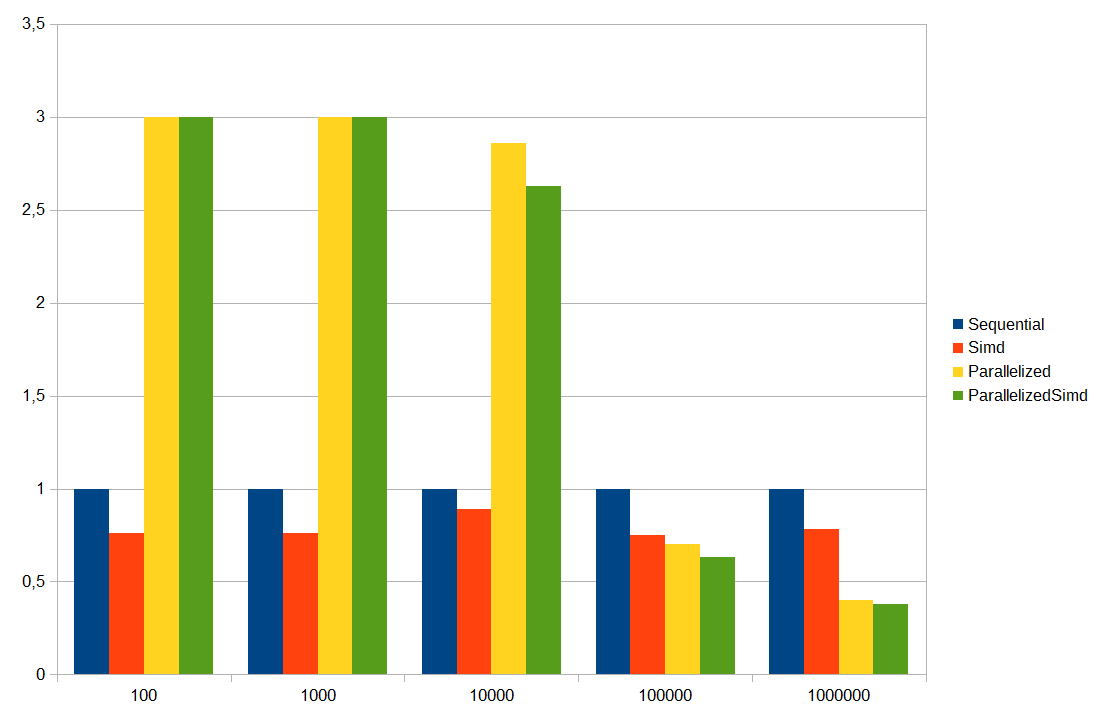
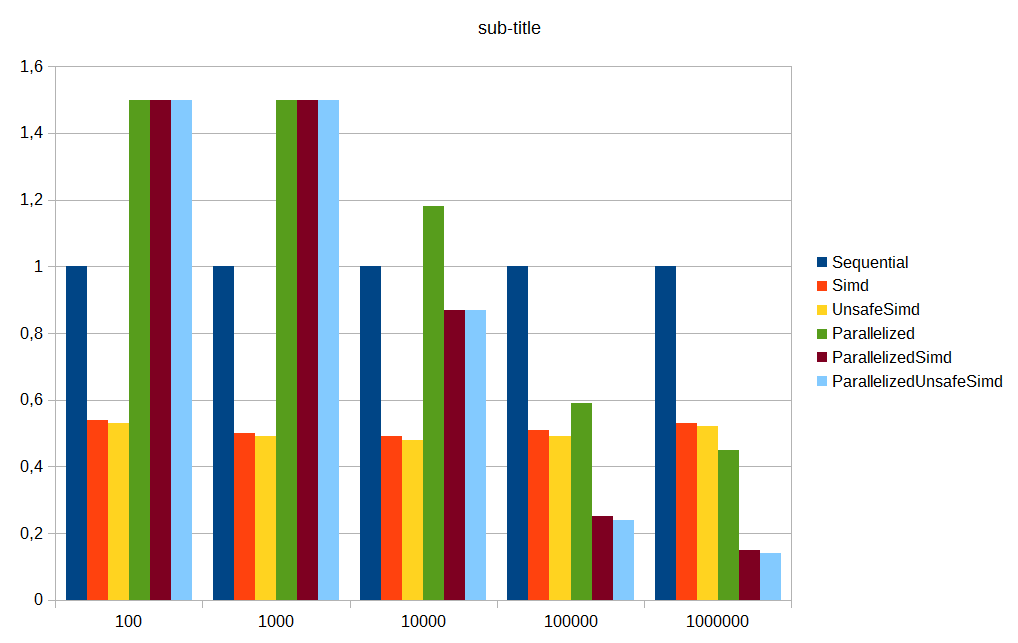
Benchmarks for https://github.com/gfoidl/Stochastics/issues/4

diff --git a/perf/gfoidl.Stochastics.Benchmarks/BenchmarkDotNet.Artifacts/results/gfoidl.Stochastics.Benchmarks.CalculateDeltaBenchmarks-report.html b/perf/gfoidl.Stochastics.Benchmarks/BenchmarkDotNet.Artifacts/results/gfoidl.Stochastics.Benchmarks.CalculateDeltaBenchmarks-report.html
@@ -13,38 +13,47 @@
 </head>
 <body>
 <pre><code>
-BenchmarkDotNet=v0.10.11, OS=Windows 7 SP1 (6.1.7601.0)
-Processor=Intel Core i7-3610QM CPU 2.30GHz (Ivy Bridge), ProcessorCount=8
-Frequency=2241054 Hz, Resolution=446.2186 ns, Timer=TSC
-.NET Core SDK=2.1.2
-  [Host]     : .NET Core 2.0.3 (Framework 4.6.25815.02), 64bit RyuJIT
-  DefaultJob : .NET Core 2.0.3 (Framework 4.6.25815.02), 64bit RyuJIT
+BenchmarkDotNet=v0.10.11, OS=ubuntu 16.04
+Processor=Intel Xeon CPU 2.60GHz, ProcessorCount=4
+.NET Core SDK=2.1.3
+  [Host]     : .NET Core 2.0.4 (Framework 4.6.0.0), 64bit RyuJIT
+  DefaultJob : .NET Core 2.0.4 (Framework 4.6.0.0), 64bit RyuJIT
 </code></pre>
 <pre><code></code></pre>
 
 <table>
-<thead><tr><th>    Method</th><th>N</th><th>     Mean</th><th>  Error</th><th> StdDev</th><th>Scaled</th><th>ScaledSD</th>
+<thead><tr><th>          Method</th><th>N</th><th>    Mean</th><th>   Error</th><th>  StdDev</th><th>Scaled</th><th>ScaledSD</th>
 </tr>
-</thead><tbody><tr><td>Sequential</td><td>100</td><td>103.08 ns</td><td>2.530 ns</td><td>3.108 ns</td><td>1.00</td><td>0.00</td>
-</tr><tr><td>      Simd</td><td>100</td><td> 77.95 ns</td><td>1.381 ns</td><td>1.418 ns</td><td>0.76</td><td>0.03</td>
-</tr><tr><td>Parallelized</td><td>100</td><td>14,260.56 ns</td><td>280.124 ns</td><td>572.218 ns</td><td>138.47</td><td>6.79</td>
-</tr><tr><td>ParallelizedSimd</td><td>100</td><td>15,109.03 ns</td><td>297.945 ns</td><td>566.871 ns</td><td>146.70</td><td>6.89</td>
-</tr><tr><td>Sequential</td><td>1000</td><td>992.65 ns</td><td>10.378 ns</td><td>8.666 ns</td><td>1.00</td><td>0.00</td>
-</tr><tr><td>      Simd</td><td>1000</td><td>758.28 ns</td><td>8.265 ns</td><td>7.731 ns</td><td>0.76</td><td>0.01</td>
-</tr><tr><td>Parallelized</td><td>1000</td><td>19,512.83 ns</td><td>388.174 ns</td><td>784.130 ns</td><td>19.66</td><td>0.80</td>
-</tr><tr><td>ParallelizedSimd</td><td>1000</td><td>18,146.27 ns</td><td>413.119 ns</td><td>1,218.091 ns</td><td>18.28</td><td>1.23</td>
-</tr><tr><td>Sequential</td><td>10000</td><td>10,283.10 ns</td><td>170.939 ns</td><td>159.896 ns</td><td>1.00</td><td>0.00</td>
-</tr><tr><td>      Simd</td><td>10000</td><td>9,173.94 ns</td><td>72.481 ns</td><td>67.798 ns</td><td>0.89</td><td>0.01</td>
-</tr><tr><td>Parallelized</td><td>10000</td><td>29,444.16 ns</td><td>696.735 ns</td><td>2,054.338 ns</td><td>2.86</td><td>0.20</td>
-</tr><tr><td>ParallelizedSimd</td><td>10000</td><td>27,063.47 ns</td><td>538.435 ns</td><td>1,464.853 ns</td><td>2.63</td><td>0.15</td>
-</tr><tr><td>Sequential</td><td>100000</td><td>99,172.89 ns</td><td>1,279.400 ns</td><td>1,134.155 ns</td><td>1.00</td><td>0.00</td>
-</tr><tr><td>      Simd</td><td>100000</td><td>74,260.29 ns</td><td>155.633 ns</td><td>121.508 ns</td><td>0.75</td><td>0.01</td>
-</tr><tr><td>Parallelized</td><td>100000</td><td>69,457.64 ns</td><td>1,609.421 ns</td><td>4,669.222 ns</td><td>0.70</td><td>0.05</td>
-</tr><tr><td>ParallelizedSimd</td><td>100000</td><td>62,653.87 ns</td><td>1,247.187 ns</td><td>3,393.063 ns</td><td>0.63</td><td>0.03</td>
-</tr><tr><td>Sequential</td><td>1000000</td><td>1,041,421.30 ns</td><td>6,283.693 ns</td><td>5,570.330 ns</td><td>1.00</td><td>0.00</td>
-</tr><tr><td>      Simd</td><td>1000000</td><td>810,299.97 ns</td><td>11,487.766 ns</td><td>9,592.804 ns</td><td>0.78</td><td>0.01</td>
-</tr><tr><td>Parallelized</td><td>1000000</td><td>419,496.96 ns</td><td>8,763.994 ns</td><td>25,004.168 ns</td><td>0.40</td><td>0.02</td>
-</tr><tr><td>ParallelizedSimd</td><td>1000000</td><td>400,718.96 ns</td><td>7,924.591 ns</td><td>18,208.066 ns</td><td>0.38</td><td>0.02</td>
+</thead><tbody><tr><td>      Sequential</td><td>100</td><td>267.0 ns</td><td>1.1646 ns</td><td>1.0894 ns</td><td>1.00</td><td>0.00</td>
+</tr><tr><td>            Simd</td><td>100</td><td>143.9 ns</td><td>0.4182 ns</td><td>0.3707 ns</td><td>0.54</td><td>0.00</td>
+</tr><tr><td>      UnsafeSimd</td><td>100</td><td>142.5 ns</td><td>0.5870 ns</td><td>0.5203 ns</td><td>0.53</td><td>0.00</td>
+</tr><tr><td>    Parallelized</td><td>100</td><td>13,869.9 ns</td><td>275.2562 ns</td><td>305.9465 ns</td><td>51.95</td><td>1.13</td>
+</tr><tr><td>ParallelizedSimd</td><td>100</td><td>13,806.7 ns</td><td>263.0359 ns</td><td>377.2382 ns</td><td>51.71</td><td>1.40</td>
+</tr><tr><td>ParallelizedUnsafeSimd</td><td>100</td><td>13,949.5 ns</td><td>316.9510 ns</td><td>412.1259 ns</td><td>52.25</td><td>1.52</td>
+</tr><tr><td>      Sequential</td><td>1000</td><td>2,695.1 ns</td><td>11.5088 ns</td><td>10.2022 ns</td><td>1.00</td><td>0.00</td>
+</tr><tr><td>            Simd</td><td>1000</td><td>1,335.6 ns</td><td>7.9871 ns</td><td>7.4711 ns</td><td>0.50</td><td>0.00</td>
+</tr><tr><td>      UnsafeSimd</td><td>1000</td><td>1,308.8 ns</td><td>3.6940 ns</td><td>3.0847 ns</td><td>0.49</td><td>0.00</td>
+</tr><tr><td>    Parallelized</td><td>1000</td><td>19,358.3 ns</td><td>203.5060 ns</td><td>158.8841 ns</td><td>7.18</td><td>0.06</td>
+</tr><tr><td>ParallelizedSimd</td><td>1000</td><td>15,647.0 ns</td><td>305.5757 ns</td><td>428.3744 ns</td><td>5.81</td><td>0.16</td>
+</tr><tr><td>ParallelizedUnsafeSimd</td><td>1000</td><td>15,267.5 ns</td><td>296.7190 ns</td><td>231.6587 ns</td><td>5.67</td><td>0.08</td>
+</tr><tr><td>      Sequential</td><td>10000</td><td>26,896.4 ns</td><td>128.1563 ns</td><td>119.8774 ns</td><td>1.00</td><td>0.00</td>
+</tr><tr><td>            Simd</td><td>10000</td><td>13,202.7 ns</td><td>34.2350 ns</td><td>30.3484 ns</td><td>0.49</td><td>0.00</td>
+</tr><tr><td>      UnsafeSimd</td><td>10000</td><td>13,020.3 ns</td><td>63.8175 ns</td><td>56.5726 ns</td><td>0.48</td><td>0.00</td>
+</tr><tr><td>    Parallelized</td><td>10000</td><td>31,839.6 ns</td><td>817.1674 ns</td><td>1,687.5924 ns</td><td>1.18</td><td>0.06</td>
+</tr><tr><td>ParallelizedSimd</td><td>10000</td><td>23,531.8 ns</td><td>333.9748 ns</td><td>278.8840 ns</td><td>0.87</td><td>0.01</td>
+</tr><tr><td>ParallelizedUnsafeSimd</td><td>10000</td><td>23,361.9 ns</td><td>438.2625 ns</td><td>388.5083 ns</td><td>0.87</td><td>0.01</td>
+</tr><tr><td>      Sequential</td><td>100000</td><td>264,949.6 ns</td><td>934.0504 ns</td><td>779.9743 ns</td><td>1.00</td><td>0.00</td>
+</tr><tr><td>            Simd</td><td>100000</td><td>134,879.3 ns</td><td>1,430.3841 ns</td><td>1,337.9820 ns</td><td>0.51</td><td>0.01</td>
+</tr><tr><td>      UnsafeSimd</td><td>100000</td><td>131,076.6 ns</td><td>817.6052 ns</td><td>682.7373 ns</td><td>0.49</td><td>0.00</td>
+</tr><tr><td>    Parallelized</td><td>100000</td><td>157,510.3 ns</td><td>2,986.4690 ns</td><td>2,793.5447 ns</td><td>0.59</td><td>0.01</td>
+</tr><tr><td>ParallelizedSimd</td><td>100000</td><td>66,818.0 ns</td><td>1,330.5960 ns</td><td>2,365.1330 ns</td><td>0.25</td><td>0.01</td>
+</tr><tr><td>ParallelizedUnsafeSimd</td><td>100000</td><td>63,187.1 ns</td><td>981.1055 ns</td><td>917.7266 ns</td><td>0.24</td><td>0.00</td>
+</tr><tr><td>      Sequential</td><td>1000000</td><td>2,793,817.3 ns</td><td>24,965.7496 ns</td><td>22,131.4846 ns</td><td>1.00</td><td>0.00</td>
+</tr><tr><td>            Simd</td><td>1000000</td><td>1,483,392.3 ns</td><td>28,874.7784 ns</td><td>33,252.2348 ns</td><td>0.53</td><td>0.01</td>
+</tr><tr><td>      UnsafeSimd</td><td>1000000</td><td>1,465,181.1 ns</td><td>29,278.0990 ns</td><td>41,043.8057 ns</td><td>0.52</td><td>0.01</td>
+</tr><tr><td>    Parallelized</td><td>1000000</td><td>1,248,575.2 ns</td><td>17,478.5690 ns</td><td>16,349.4627 ns</td><td>0.45</td><td>0.01</td>
+</tr><tr><td>ParallelizedSimd</td><td>1000000</td><td>421,959.5 ns</td><td>4,722.1225 ns</td><td>4,186.0382 ns</td><td>0.15</td><td>0.00</td>
+</tr><tr><td>ParallelizedUnsafeSimd</td><td>1000000</td><td>402,343.5 ns</td><td>4,310.8080 ns</td><td>4,032.3321 ns</td><td>0.14</td><td>0.00</td>
 </tr></tbody></table>
 </body>
 </html>

diff --git a/perf/gfoidl.Stochastics.Benchmarks/CalculateDeltaBenchmarks.cs b/perf/gfoidl.Stochastics.Benchmarks/CalculateDeltaBenchmarks.cs
@@ -1,13 +1,14 @@
 using System;
 using System.Collections.Concurrent;
 using System.Numerics;
+using System.Runtime.CompilerServices;
 using System.Threading.Tasks;
 using BenchmarkDotNet.Attributes;
 using BenchmarkDotNet.Running;
 
 namespace gfoidl.Stochastics.Benchmarks
 {
-    //[DisassemblyDiagnoser(printSource: true)]
+    [DisassemblyDiagnoser(printSource: true)]
     public class CalculateDeltaBenchmarks
     {
         public static void Run()
@@ -15,10 +16,13 @@ namespace gfoidl.Stochastics.Benchmarks
             var benchs = new CalculateDeltaBenchmarks();
             benchs.N   = 1000;
             benchs.GlobalSetup();
-            Console.WriteLine(benchs.Sequential());
-            Console.WriteLine(benchs.Simd());
-            Console.WriteLine(benchs.Parallelized());
-            Console.WriteLine(benchs.ParallelizedSimd());
+            const int align = -25;
+            Console.WriteLine($"{nameof(benchs.Sequential),align}: {benchs.Sequential()}");
+            Console.WriteLine($"{nameof(benchs.Simd),align}: {benchs.Simd()}");
+            Console.WriteLine($"{nameof(benchs.UnsafeSimd),align}: {benchs.UnsafeSimd()}");
+            Console.WriteLine($"{nameof(benchs.Parallelized),align}: {benchs.Parallelized()}");
+            Console.WriteLine($"{nameof(benchs.ParallelizedSimd),align}: {benchs.ParallelizedSimd()}");
+            Console.WriteLine($"{nameof(benchs.ParallelizedUnsafeSimd),align}: {benchs.ParallelizedUnsafeSimd()}");
 #if !DEBUG
             BenchmarkRunner.Run<CalculateDeltaBenchmarks>();
 #endif
@@ -43,7 +47,7 @@ namespace gfoidl.Stochastics.Benchmarks
             for (int i = 0; i < this.N; ++i)
             {
                 _values[i] = rnd.NextDouble();
-                _avg += _values[i];
+                _avg      += _values[i];
             }
 
             _avg /= this.N;
@@ -78,10 +82,10 @@ namespace gfoidl.Stochastics.Benchmarks
                 for (; i < tmp.Length - 2 * Vector<double>.Count; i += Vector<double>.Count)
                 {
                     var tmpVec = new Vector<double>(tmp, i);
-                    deltaVec += Vector.Abs(tmpVec - avgVec);
+                    deltaVec  += Vector.Abs(tmpVec - avgVec);
 
-                    i += Vector<double>.Count;
-                    tmpVec = new Vector<double>(tmp, i);
+                    i        += Vector<double>.Count;
+                    tmpVec    = new Vector<double>(tmp, i);
                     deltaVec += Vector.Abs(tmpVec - avgVec);
                 }
 
@@ -96,6 +100,47 @@ namespace gfoidl.Stochastics.Benchmarks
         }
         //---------------------------------------------------------------------
         [Benchmark]
+        public unsafe double UnsafeSimd()
+        {
+            double delta = 0;
+            double avg   = this.Mean;
+            int n        = _values.Length;
+
+            fixed (double* pArray = _values)
+            {
+                double* arr = pArray;
+                int i       = 0;
+
+                if (Vector.IsHardwareAccelerated && n >= Vector<double>.Count * 2)
+                {
+                    var avgVec   = new Vector<double>(avg);
+                    var deltaVec = new Vector<double>(0);
+
+                    for (; i < n - 2 * Vector<double>.Count;)
+                    {
+                        Vector<double> vec = Unsafe.Read<Vector<double>>(arr);
+                        deltaVec += Vector.Abs(vec - avgVec);
+                        arr      += Vector<double>.Count;
+                        i        += Vector<double>.Count;
+
+                        vec = Unsafe.Read<Vector<double>>(arr);
+                        deltaVec += Vector.Abs(vec - avgVec);
+                        arr      += Vector<double>.Count;
+                        i        += Vector<double>.Count;
+                    }
+
+                    for (int j = 0; j < Vector<double>.Count; ++j)
+                        delta += deltaVec[j];
+                }
+
+                for (; i < n; ++i)
+                    delta += Math.Abs(pArray[i] - avg);
+            }
+
+            return delta / n;
+        }
+        //---------------------------------------------------------------------
+        //[Benchmark]
         public double Parallelized()
         {
             double delta = 0;
@@ -157,10 +202,10 @@ namespace gfoidl.Stochastics.Benchmarks
                         for (; i < range.Item2 - 2 * Vector<double>.Count; i += Vector<double>.Count)
                         {
                             var arrVec = new Vector<double>(arr, i);
-                            deltaVec += Vector.Abs(arrVec - avgVec);
+                            deltaVec  += Vector.Abs(arrVec - avgVec);
 
-                            i += Vector<double>.Count;
-                            arrVec = new Vector<double>(arr, i);
+                            i        += Vector<double>.Count;
+                            arrVec    = new Vector<double>(arr, i);
                             deltaVec += Vector.Abs(arrVec - avgVec);
                         }
 
@@ -170,6 +215,65 @@ namespace gfoidl.Stochastics.Benchmarks
 
                     for (; i < range.Item2; ++i)
                         localDelta += Math.Abs(arr[i] - avg);
+
+                    lock (sync) delta += localDelta;
+#if !SEQUENTIAL
+                }
+            );
+#endif
+            return delta / _values.Length;
+        }
+        //---------------------------------------------------------------------
+        [Benchmark]
+        public unsafe double ParallelizedUnsafeSimd()
+        {
+            double delta = 0;
+            var sync     = new object();
+
+            Partitioner<Tuple<int, int>> partitioner = Partitioner.Create(0, _values.Length);
+#if SEQUENTIAL
+            var range = Tuple.Create(0, _values.Length);
+#else
+            Parallel.ForEach(
+                partitioner,
+                range =>
+                {
+#endif
+                    double localDelta = 0;
+                    double avg        = this.Mean;
+                    int n             = range.Item2;
+
+                    fixed (double* pArray = _values)
+                    {
+                        int i         = range.Item1;
+                        //double* arr = &pArray[i];
+                        double* arr   = pArray + i;   // is the same as above
+
+                        if (Vector.IsHardwareAccelerated && (n - i) >= Vector<double>.Count * 2)
+                        {
+                            var avgVec   = new Vector<double>(avg);
+                            var deltaVec = new Vector<double>(0);
+
+                            for (; i < n - 2 * Vector<double>.Count;)
+                            {
+                                Vector<double> vec = Unsafe.Read<Vector<double>>(arr);
+                                deltaVec += Vector.Abs(vec - avgVec);
+                                arr      += Vector<double>.Count;
+                                i        += Vector<double>.Count;
+
+                                vec = Unsafe.Read<Vector<double>>(arr);
+                                deltaVec += Vector.Abs(vec - avgVec);
+                                arr      += Vector<double>.Count;
+                                i        += Vector<double>.Count;
+                            }
+
+                            for (int j = 0; j < Vector<double>.Count; ++j)
+                                localDelta += deltaVec[j];
+                        }
+
+                        for (; i < n; ++i)
+                            localDelta += Math.Abs(pArray[i] - avg);
+                    }
 
                     lock (sync) delta += localDelta;
 #if !SEQUENTIAL

diff --git a/perf/gfoidl.Stochastics.Benchmarks/BenchmarkDotNet.Artifacts/results/gfoidl.Stochastics.Benchmarks.CalculateDeltaBenchmarks-report-github.md b/perf/gfoidl.Stochastics.Benchmarks/BenchmarkDotNet.Artifacts/results/gfoidl.Stochastics.Benchmarks.CalculateDeltaBenchmarks-report-github.md
@@ -1,33 +1,42 @@
 ``` ini
 
-BenchmarkDotNet=v0.10.11, OS=Windows 7 SP1 (6.1.7601.0)
-Processor=Intel Core i7-3610QM CPU 2.30GHz (Ivy Bridge), ProcessorCount=8
-Frequency=2241054 Hz, Resolution=446.2186 ns, Timer=TSC
-.NET Core SDK=2.1.2
-  [Host]     : .NET Core 2.0.3 (Framework 4.6.25815.02), 64bit RyuJIT
-  DefaultJob : .NET Core 2.0.3 (Framework 4.6.25815.02), 64bit RyuJIT
+BenchmarkDotNet=v0.10.11, OS=ubuntu 16.04
+Processor=Intel Xeon CPU 2.60GHz, ProcessorCount=4
+.NET Core SDK=2.1.3
+  [Host]     : .NET Core 2.0.4 (Framework 4.6.0.0), 64bit RyuJIT
+  DefaultJob : .NET Core 2.0.4 (Framework 4.6.0.0), 64bit RyuJIT
 
 
 ```
-|           Method |       N |            Mean |         Error |        StdDev | Scaled | ScaledSD |
-|----------------- |-------- |----------------:|--------------:|--------------:|-------:|---------:|
-|       **Sequential** |     **100** |       **103.08 ns** |      **2.530 ns** |      **3.108 ns** |   **1.00** |     **0.00** |
-|             Simd |     100 |        77.95 ns |      1.381 ns |      1.418 ns |   0.76 |     0.03 |
-|     Parallelized |     100 |    14,260.56 ns |    280.124 ns |    572.218 ns | 138.47 |     6.79 |
-| ParallelizedSimd |     100 |    15,109.03 ns |    297.945 ns |    566.871 ns | 146.70 |     6.89 |
-|       **Sequential** |    **1000** |       **992.65 ns** |     **10.378 ns** |      **8.666 ns** |   **1.00** |     **0.00** |
-|             Simd |    1000 |       758.28 ns |      8.265 ns |      7.731 ns |   0.76 |     0.01 |
-|     Parallelized |    1000 |    19,512.83 ns |    388.174 ns |    784.130 ns |  19.66 |     0.80 |
-| ParallelizedSimd |    1000 |    18,146.27 ns |    413.119 ns |  1,218.091 ns |  18.28 |     1.23 |
-|       **Sequential** |   **10000** |    **10,283.10 ns** |    **170.939 ns** |    **159.896 ns** |   **1.00** |     **0.00** |
-|             Simd |   10000 |     9,173.94 ns |     72.481 ns |     67.798 ns |   0.89 |     0.01 |
-|     Parallelized |   10000 |    29,444.16 ns |    696.735 ns |  2,054.338 ns |   2.86 |     0.20 |
-| ParallelizedSimd |   10000 |    27,063.47 ns |    538.435 ns |  1,464.853 ns |   2.63 |     0.15 |
-|       **Sequential** |  **100000** |    **99,172.89 ns** |  **1,279.400 ns** |  **1,134.155 ns** |   **1.00** |     **0.00** |
-|             Simd |  100000 |    74,260.29 ns |    155.633 ns |    121.508 ns |   0.75 |     0.01 |
-|     Parallelized |  100000 |    69,457.64 ns |  1,609.421 ns |  4,669.222 ns |   0.70 |     0.05 |
-| ParallelizedSimd |  100000 |    62,653.87 ns |  1,247.187 ns |  3,393.063 ns |   0.63 |     0.03 |
-|       **Sequential** | **1000000** | **1,041,421.30 ns** |  **6,283.693 ns** |  **5,570.330 ns** |   **1.00** |     **0.00** |
-|             Simd | 1000000 |   810,299.97 ns | 11,487.766 ns |  9,592.804 ns |   0.78 |     0.01 |
-|     Parallelized | 1000000 |   419,496.96 ns |  8,763.994 ns | 25,004.168 ns |   0.40 |     0.02 |
-| ParallelizedSimd | 1000000 |   400,718.96 ns |  7,924.591 ns | 18,208.066 ns |   0.38 |     0.02 |
+|                 Method |       N |           Mean |          Error |         StdDev | Scaled | ScaledSD |
+|----------------------- |-------- |---------------:|---------------:|---------------:|-------:|---------:|
+|             **Sequential** |     **100** |       **267.0 ns** |      **1.1646 ns** |      **1.0894 ns** |   **1.00** |     **0.00** |
+|                   Simd |     100 |       143.9 ns |      0.4182 ns |      0.3707 ns |   0.54 |     0.00 |
+|             UnsafeSimd |     100 |       142.5 ns |      0.5870 ns |      0.5203 ns |   0.53 |     0.00 |
+|           Parallelized |     100 |    13,869.9 ns |    275.2562 ns |    305.9465 ns |  51.95 |     1.13 |
+|       ParallelizedSimd |     100 |    13,806.7 ns |    263.0359 ns |    377.2382 ns |  51.71 |     1.40 |
+| ParallelizedUnsafeSimd |     100 |    13,949.5 ns |    316.9510 ns |    412.1259 ns |  52.25 |     1.52 |
+|             **Sequential** |    **1000** |     **2,695.1 ns** |     **11.5088 ns** |     **10.2022 ns** |   **1.00** |     **0.00** |
+|                   Simd |    1000 |     1,335.6 ns |      7.9871 ns |      7.4711 ns |   0.50 |     0.00 |
+|             UnsafeSimd |    1000 |     1,308.8 ns |      3.6940 ns |      3.0847 ns |   0.49 |     0.00 |
+|           Parallelized |    1000 |    19,358.3 ns |    203.5060 ns |    158.8841 ns |   7.18 |     0.06 |
+|       ParallelizedSimd |    1000 |    15,647.0 ns |    305.5757 ns |    428.3744 ns |   5.81 |     0.16 |
+| ParallelizedUnsafeSimd |    1000 |    15,267.5 ns |    296.7190 ns |    231.6587 ns |   5.67 |     0.08 |
+|             **Sequential** |   **10000** |    **26,896.4 ns** |    **128.1563 ns** |    **119.8774 ns** |   **1.00** |     **0.00** |
+|                   Simd |   10000 |    13,202.7 ns |     34.2350 ns |     30.3484 ns |   0.49 |     0.00 |
+|             UnsafeSimd |   10000 |    13,020.3 ns |     63.8175 ns |     56.5726 ns |   0.48 |     0.00 |
+|           Parallelized |   10000 |    31,839.6 ns |    817.1674 ns |  1,687.5924 ns |   1.18 |     0.06 |
+|       ParallelizedSimd |   10000 |    23,531.8 ns |    333.9748 ns |    278.8840 ns |   0.87 |     0.01 |
+| ParallelizedUnsafeSimd |   10000 |    23,361.9 ns |    438.2625 ns |    388.5083 ns |   0.87 |     0.01 |
+|             **Sequential** |  **100000** |   **264,949.6 ns** |    **934.0504 ns** |    **779.9743 ns** |   **1.00** |     **0.00** |
+|                   Simd |  100000 |   134,879.3 ns |  1,430.3841 ns |  1,337.9820 ns |   0.51 |     0.01 |
+|             UnsafeSimd |  100000 |   131,076.6 ns |    817.6052 ns |    682.7373 ns |   0.49 |     0.00 |
+|           Parallelized |  100000 |   157,510.3 ns |  2,986.4690 ns |  2,793.5447 ns |   0.59 |     0.01 |
+|       ParallelizedSimd |  100000 |    66,818.0 ns |  1,330.5960 ns |  2,365.1330 ns |   0.25 |     0.01 |
+| ParallelizedUnsafeSimd |  100000 |    63,187.1 ns |    981.1055 ns |    917.7266 ns |   0.24 |     0.00 |
+|             **Sequential** | **1000000** | **2,793,817.3 ns** | **24,965.7496 ns** | **22,131.4846 ns** |   **1.00** |     **0.00** |
+|                   Simd | 1000000 | 1,483,392.3 ns | 28,874.7784 ns | 33,252.2348 ns |   0.53 |     0.01 |
+|             UnsafeSimd | 1000000 | 1,465,181.1 ns | 29,278.0990 ns | 41,043.8057 ns |   0.52 |     0.01 |
+|           Parallelized | 1000000 | 1,248,575.2 ns | 17,478.5690 ns | 16,349.4627 ns |   0.45 |     0.01 |
+|       ParallelizedSimd | 1000000 |   421,959.5 ns |  4,722.1225 ns |  4,186.0382 ns |   0.15 |     0.00 |
+| ParallelizedUnsafeSimd | 1000000 |   402,343.5 ns |  4,310.8080 ns |  4,032.3321 ns |   0.14 |     0.00 |
